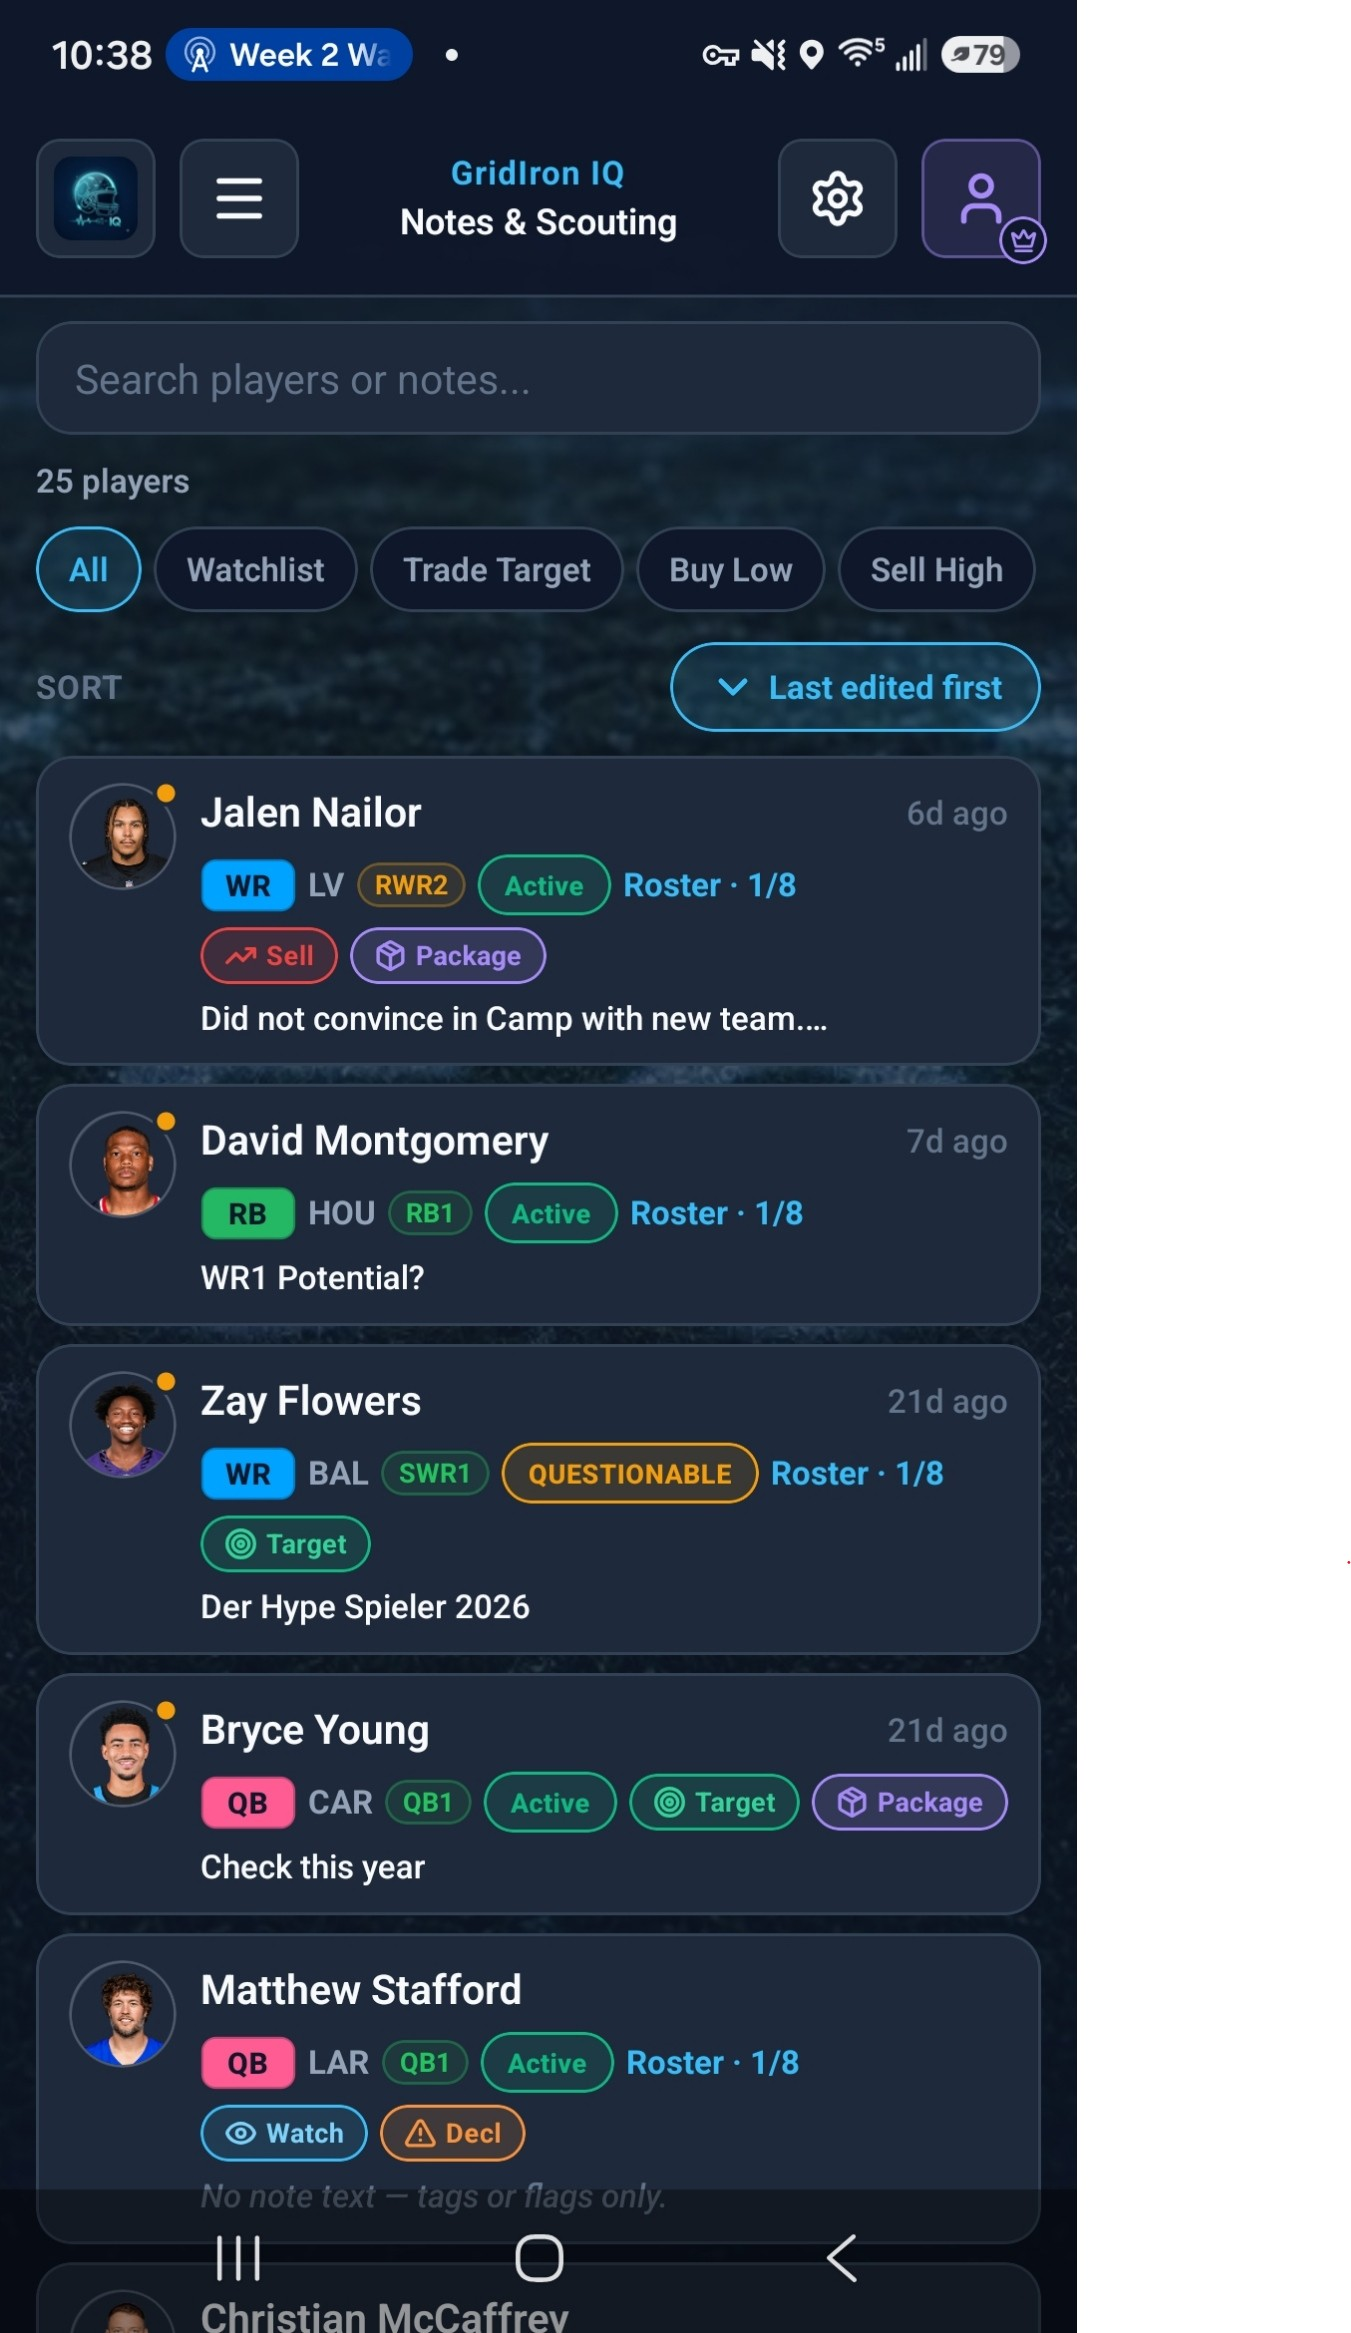
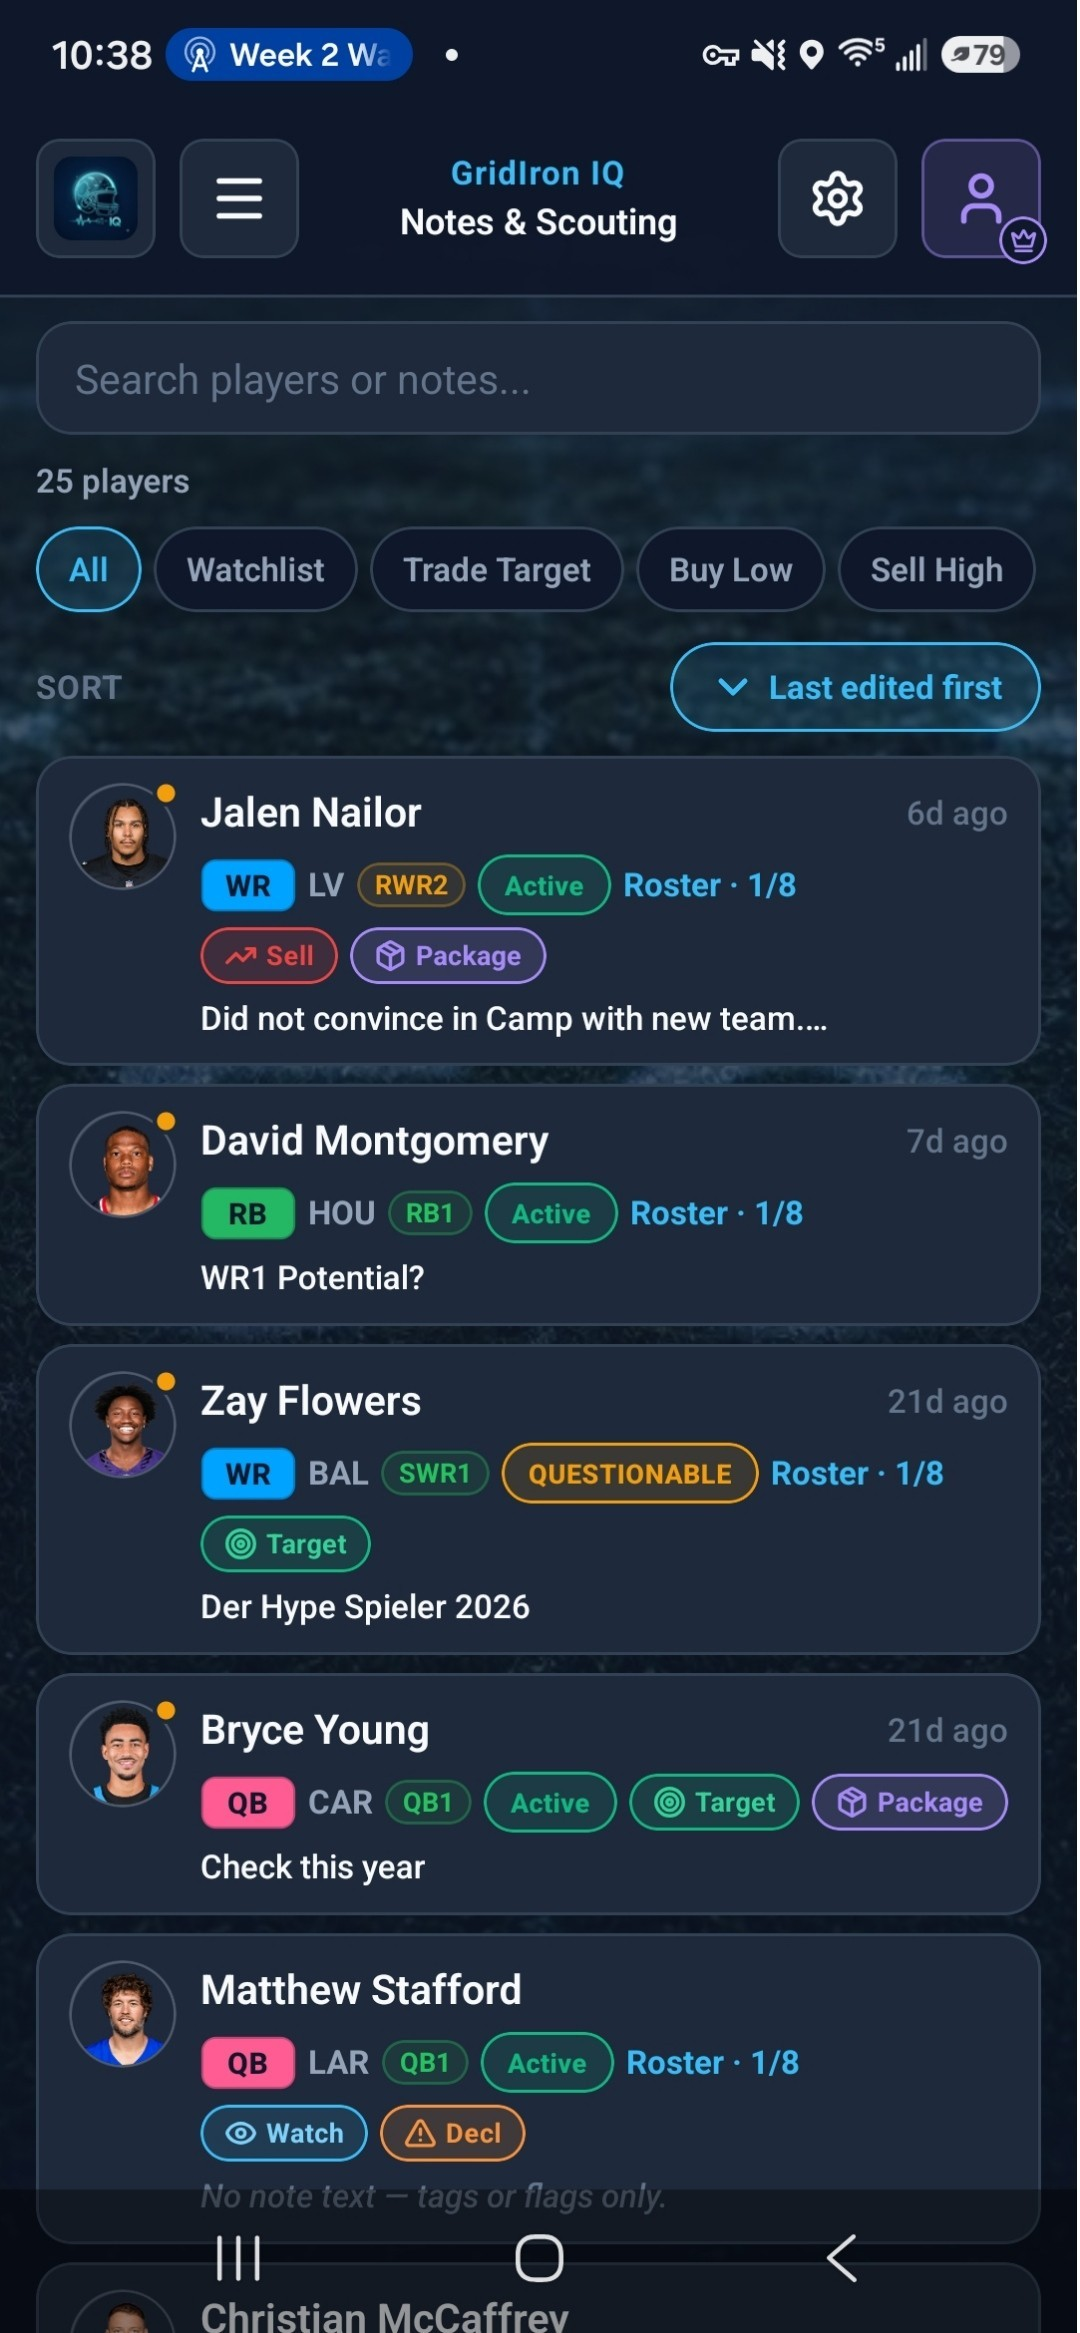
Use single-click zoom and crop TradeBoard1 screenshot export.
Removes extra white canvas from the JPG and shows screenshots at natural aspect ratio without CSS cropping.

diff --git a/index.html b/index.html
@@ -425,12 +425,9 @@
 
     .carousel-slide img {
       display: block;
-      width: min(100%, 200px);
-      aspect-ratio: 1080 / 2340;
-      height: auto;
-      max-height: min(300px, 40vh);
-      object-fit: cover;
-      object-position: top left;
+      width: auto;
+      height: min(300px, 40vh);
+      max-width: min(100%, 200px);
       border-radius: 10px;
       box-shadow: 0 12px 32px rgba(0, 0, 0, 0.35);
       cursor: zoom-in;
@@ -521,12 +518,10 @@
 
     .lightbox-inner img {
       display: block;
-      width: min(100%, 520px);
+      width: auto;
+      max-width: min(100%, 520px);
       max-height: calc(92vh - 4rem);
-      aspect-ratio: 1080 / 2340;
       height: auto;
-      object-fit: cover;
-      object-position: top left;
       border-radius: 12px;
       box-shadow: var(--shadow);
     }
@@ -684,7 +679,7 @@
     <div class="wrap">
       <section class="card" id="preview">
         <h2 data-i18n="gallery.title">App preview</h2>
-        <p data-i18n="gallery.lead">Use the arrows to browse · double-click a screenshot to zoom</p>
+        <p data-i18n="gallery.lead">Use the arrows to browse · tap a screenshot to zoom</p>
 
         <div class="carousel-wrap">
           <button type="button" class="carousel-btn prev" id="carousel-prev" aria-label="Previous screenshot">‹</button>
@@ -839,7 +834,7 @@
         'hero.title': 'Bessere Entscheidungen für deine Sleeper-Ligen',
         'hero.lead': 'GridIron IQ vereint Scouting-Notizen, Exposure-Analyse, Trade Intelligence und Injury Insights in einer App — für ambitionierte Fantasy Manager.',
         'gallery.title': 'App-Vorschau',
-        'gallery.lead': 'Mit Pfeilen blättern · Doppelklick auf Screenshot zum Vergrößern',
+        'gallery.lead': 'Mit Pfeilen blättern · Screenshot antippen zum Vergrößern',
         'gallery.close': 'Schließen',
         'gallery.home1': 'Liga-Übersicht mit Lineup-Alerts',
         'gallery.home2': 'Alle Ligen auf einen Blick',
@@ -899,7 +894,7 @@
         'hero.title': 'Smarter decisions for your Sleeper leagues',
         'hero.lead': 'GridIron IQ brings scouting notes, exposure analysis, trade intelligence, and injury insights together in one app — built for serious fantasy managers.',
         'gallery.title': 'App preview',
-        'gallery.lead': 'Use arrows to browse · double-click a screenshot to zoom',
+        'gallery.lead': 'Use arrows to browse · tap a screenshot to zoom',
         'gallery.close': 'Close',
         'gallery.home1': 'League overview with lineup alerts',
         'gallery.home2': 'All leagues at a glance',
@@ -992,7 +987,7 @@
       }).join('');
 
       track.querySelectorAll('img').forEach(function (img) {
-        img.addEventListener('dblclick', function () {
+        img.addEventListener('click', function () {
           openLightbox(parseInt(img.getAttribute('data-index'), 10));
         });
       });
